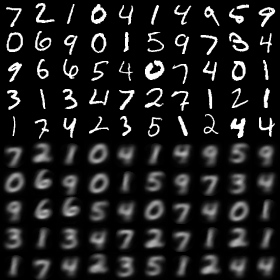
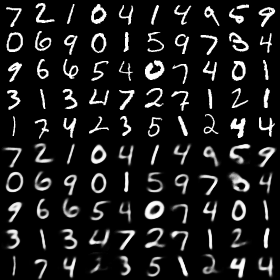
Change lam_recon value and update results
lam_recon from 0.0005 to 0.0005*784
update test error results
re-organize the code

diff --git a/capsulelayers.py b/capsulelayers.py
@@ -60,7 +60,7 @@ def squash(vectors, axis=-1):
     :return: a Tensor with same shape as input vectors
     """
     s_squared_norm = K.sum(K.square(vectors), axis, keepdims=True)
-    scale = s_squared_norm / (1 + s_squared_norm) / K.sqrt(s_squared_norm)
+    scale = s_squared_norm / (1 + s_squared_norm) / K.sqrt(s_squared_norm + K.epsilon())
     return scale * vectors
 
 
@@ -112,31 +112,43 @@ class CapsuleLayer(layers.Layer):
         # Now it has shape = [None, input_num_capsule, num_capsule, 1, input_dim_vector]
         inputs_tiled = K.tile(inputs_expand, [1, 1, self.num_capsule, 1, 1])
 
-        """  
+        """ 
+        # Begin: inputs_hat computation V1 ---------------------------------------------------------------------#
         # Compute `inputs * W` by expanding the first dim of W. More time-consuming and need batch_size.
-        # Now W has shape  = [batch_size, input_num_capsule, num_capsule, input_dim_vector, dim_vector]
+        # w_tiled.shape = [batch_size, input_num_capsule, num_capsule, input_dim_vector, dim_vector]
         w_tiled = K.tile(K.expand_dims(self.W, 0), [self.batch_size, 1, 1, 1, 1])
         
         # Transformed vectors, inputs_hat.shape = [None, input_num_capsule, num_capsule, 1, dim_vector]
         inputs_hat = K.batch_dot(inputs_tiled, w_tiled, [4, 3])
+        # End: inputs_hat computation V1 ---------------------------------------------------------------------#
         """
+
+        # Begin: inputs_hat computation V2 ---------------------------------------------------------------------#
         # Compute `inputs * W` by scanning inputs_tiled on dimension 0. This is faster but requires Tensorflow.
         # inputs_hat.shape = [None, input_num_capsule, num_capsule, 1, dim_vector]
         inputs_hat = tf.scan(lambda ac, x: K.batch_dot(x, self.W, [3, 2]),
                              elems=inputs_tiled,
                              initializer=K.zeros([self.input_num_capsule, self.num_capsule, 1, self.dim_vector]))
+        # End: inputs_hat computation V2 ---------------------------------------------------------------------#
         """
-        # Routing algorithm V1. Use tf.while_loop in a dynamic way.
+        # Begin: routing algorithm V1, dynamic ------------------------------------------------------------#
         def body(i, b, outputs):
-            c = tf.nn.softmax(self.bias, dim=2)  # dim=2 is the num_capsule dimension
+            c = tf.nn.softmax(b, dim=2)  # dim=2 is the num_capsule dimension
             outputs = squash(K.sum(c * inputs_hat, 1, keepdims=True))
-            b = b + K.sum(inputs_hat * outputs, -1, keepdims=True)
+            if i != 1:
+                b = b + K.sum(inputs_hat * outputs, -1, keepdims=True)
             return [i-1, b, outputs]
 
         cond = lambda i, b, inputs_hat: i > 0
         loop_vars = [K.constant(self.num_routing), self.bias, K.sum(inputs_hat, 1, keepdims=True)]
-        _, _, outputs = tf.while_loop(cond, body, loop_vars)
+        shape_invariants = [tf.TensorShape([]),
+                            tf.TensorShape([None, self.input_num_capsule, self.num_capsule, 1, 1]),
+                            tf.TensorShape([None, 1, self.num_capsule, 1, self.dim_vector])]
+        _, _, outputs = tf.while_loop(cond, body, loop_vars, shape_invariants)
+        # End: routing algorithm V1, dynamic ------------------------------------------------------------#
         """
+
+        # Begin: routing algorithm V2, static -----------------------------------------------------------#
         # Routing algorithm V2. Use iteration. V2 and V1 both work without much difference on performance
         assert self.num_routing > 0, 'The num_routing should be > 0.'
         for i in range(self.num_routing):
@@ -149,6 +161,8 @@ class CapsuleLayer(layers.Layer):
                 # self.bias = K.update_add(self.bias, K.sum(inputs_hat * outputs, [0, -1], keepdims=True))
                 self.bias += K.sum(inputs_hat * outputs, -1, keepdims=True)
             # tf.summary.histogram('BigBee', self.bias)  # for debugging
+        # End: routing algorithm V2, static ------------------------------------------------------------#
+
         return K.reshape(outputs, [-1, self.num_capsule, self.dim_vector])
 
     def compute_output_shape(self, input_shape):
@@ -163,9 +177,10 @@ def PrimaryCap(inputs, dim_vector, n_channels, kernel_size, strides, padding):
     :param n_channels: the number of types of capsules
     :return: output tensor, shape=[None, num_capsule, dim_vector]
     """
-    output = layers.Conv2D(filters=dim_vector*n_channels, kernel_size=kernel_size, strides=strides, padding=padding)(inputs)
-    outputs = layers.Reshape(target_shape=[-1, dim_vector])(output)
-    return layers.Lambda(squash)(outputs)
+    output = layers.Conv2D(filters=dim_vector*n_channels, kernel_size=kernel_size, strides=strides, padding=padding,
+                           name='primarycap_conv2d')(inputs)
+    outputs = layers.Reshape(target_shape=[-1, dim_vector], name='primarycap_reshape')(output)
+    return layers.Lambda(squash, name='primarycap_squash')(outputs)
 
 
 """

diff --git a/capsulenet.py b/capsulenet.py
@@ -16,7 +16,7 @@ Result:
 Author: Xifeng Guo, E-mail: `guoxifeng1990@163.com`, Github: `https://github.com/XifengGuo/CapsNet-Keras`
 """
 
-from keras import layers, models
+from keras import layers, models, optimizers
 from keras import backend as K
 from keras.utils import to_categorical
 from capsulelayers import CapsuleLayer, PrimaryCap, Length, Mask
@@ -25,7 +25,7 @@ from capsulelayers import CapsuleLayer, PrimaryCap, Length, Mask
 def CapsNet(input_shape, n_class, num_routing):
     """
     A Capsule Network on MNIST.
-    :param input_shape: data shape, 4d, [None, width, height, channels]
+    :param input_shape: data shape, 3d, [width, height, channels]
     :param n_class: number of classes
     :param num_routing: number of routing iterations
     :return: A Keras Model with 2 inputs and 2 outputs
@@ -50,8 +50,8 @@ def CapsNet(input_shape, n_class, num_routing):
     masked = Mask()([digitcaps, y])  # The true label is used to mask the output of capsule layer.
     x_recon = layers.Dense(512, activation='relu')(masked)
     x_recon = layers.Dense(1024, activation='relu')(x_recon)
-    x_recon = layers.Dense(784, activation='sigmoid')(x_recon)
-    x_recon = layers.Reshape(target_shape=[28, 28, 1], name='out_recon')(x_recon)
+    x_recon = layers.Dense(np.prod(input_shape), activation='sigmoid')(x_recon)
+    x_recon = layers.Reshape(target_shape=input_shape, name='out_recon')(x_recon)
 
     # two-input-two-output keras Model
     return models.Model([x, y], [out_caps, x_recon])
@@ -87,10 +87,10 @@ def train(model, data, args):
                                batch_size=args.batch_size, histogram_freq=args.debug)
     checkpoint = callbacks.ModelCheckpoint(args.save_dir + '/weights-{epoch:02d}.h5',
                                            save_best_only=True, save_weights_only=True, verbose=1)
-    lr_decay = callbacks.LearningRateScheduler(schedule=lambda epoch: 0.001 * np.exp(-epoch / 10.))
+    lr_decay = callbacks.LearningRateScheduler(schedule=lambda epoch: args.lr * (0.9 ** epoch))
 
     # compile the model
-    model.compile(optimizer='adam',
+    model.compile(optimizer=optimizers.Adam(lr=args.lr),
                   loss=[margin_loss, 'mse'],
                   loss_weights=[1., args.lam_recon],
                   metrics={'out_caps': 'accuracy'})
@@ -98,10 +98,10 @@ def train(model, data, args):
     """
     # Training without data augmentation:
     model.fit([x_train, y_train], [y_train, x_train], batch_size=args.batch_size, epochs=args.epochs,
-              validation_data=[[x_test, y_test], [y_test, x_test]], callbacks=[log, tb, checkpoint])
+              validation_data=[[x_test, y_test], [y_test, x_test]], callbacks=[log, tb, checkpoint, lr_decay])
     """
 
-    # -----------------------------------Begin: Training with data augmentation -----------------------------------#
+    # Begin: Training with data augmentation ---------------------------------------------------------------------#
     def train_generator(x, y, batch_size, shift_fraction=0.):
         train_datagen = ImageDataGenerator(width_shift_range=shift_fraction,
                                            height_shift_range=shift_fraction)  # shift up to 2 pixel for MNIST
@@ -116,7 +116,7 @@ def train(model, data, args):
                         epochs=args.epochs,
                         validation_data=[[x_test, y_test], [y_test, x_test]],
                         callbacks=[log, tb, checkpoint, lr_decay])
-    # -----------------------------------End: Training with data augmentation -----------------------------------#
+    # End: Training with data augmentation -----------------------------------------------------------------------#
 
     model.save_weights(args.save_dir + '/trained_model.h5')
     print('Trained model saved to \'%s/trained_model.h5\'' % args.save_dir)
@@ -170,14 +170,15 @@ if __name__ == "__main__":
     import argparse
     parser = argparse.ArgumentParser()
     parser.add_argument('--batch_size', default=100, type=int)
-    parser.add_argument('--epochs', default=20, type=int)
-    parser.add_argument('--lam_recon', default=0.0005, type=float)
+    parser.add_argument('--epochs', default=30, type=int)
+    parser.add_argument('--lam_recon', default=0.392, type=float)  # 784 * 0.0005, paper uses sum of SE, here uses MSE
     parser.add_argument('--num_routing', default=3, type=int)  # num_routing should > 0
     parser.add_argument('--shift_fraction', default=0.1, type=float)
     parser.add_argument('--debug', default=0, type=int)  # debug>0 will save weights by TensorBoard
     parser.add_argument('--save_dir', default='./result')
     parser.add_argument('--is_training', default=1, type=int)
     parser.add_argument('--weights', default=None)
+    parser.add_argument('--lr', default=0.001, type=float)
     args = parser.parse_args()
     print(args)
     if not os.path.exists(args.save_dir):

diff --git a/README.md b/README.md
@@ -1,55 +1,67 @@
 # CapsNet-Keras
 [![License](https://img.shields.io/github/license/mashape/apistatus.svg?maxAge=2592000)](https://github.com/XifengGuo/CapsNet-Keras/blob/master/LICENSE)
 
-Now `Val_acc>99.5%`. A Keras implementation of CapsNet in the paper:   
+Now `test error < 0.4%`. A Keras implementation of CapsNet in the paper:   
 [Sara Sabour, Nicholas Frosst, Geoffrey E Hinton. Dynamic Routing Between Capsules. NIPS 2017](https://arxiv.org/abs/1710.09829)
 
+**Differences with the paper:**   
+- We use the learning rate decay with `decay factor = 0.9` and `step = 1 epoch`,    
+while the paper did not give the detailed parameters.
+- We only report the test errors after `30 epochs` training (still under-fitting).   
+In the paper, I suppose they trained for `1250 epochs` according to Figure A.1?
+- We use MSE (mean squared error) as the reconstruction loss and 
+the coefficient for the loss is `lam_recon=0.0005*784=0.392`.   
+This should be **equivalent** with using SSE (sum squared error) and `lam_recon=0.0005` as in the paper.
+
 **Recent updates:**
-- Released v0.1 to use. No frequent changes will be made.
+- Change the default value of lam_recon from 0.0005 to 0.392. This is because the reconstruction
+loss is SSE in paper but MSE in our implementation. 
+We believe that MSE is more robust to the dimension of input images.
+- Report test errors on MNIST
 
 **TODO**
-- Keep debugging to improve the accuracy. The learning rate decay can be tuned.
-- The model has 8M parameters, while the paper said it should be 11M.
-I'll figure out what's the problem.
-- It is time to do something with CapsuleNet...(LOL)
+- ~~The model has 8M parameters, while the paper said it should be 11M.~~   
+I have figured out the reason: 11M parameters are for the CapsuleNet on MultiMNIST where the
+image size is 36x36. The CapsuleNet on MNIST should indeed have 8M parameters. 
+- I'll stop pursuing higher accuracy on MNIST. 
+It is time to explore the interacting characteristics of CapsuleNet.
 
-**Contribution**
-- Your contribution to the repo is welcome. Open an issue or contact me with 
-`guoxifeng1990@163.com` or WeChat (微信号) `wenlong-guo`.
+**Contacts**
+- Your contributions to the repo are always welcome. 
+Open an issue or contact me with E-mail `guoxifeng1990@163.com` or WeChat `wenlong-guo`.
 
-## Requirements
-- [Keras](https://github.com/fchollet/keras) 
-- matplotlib
 
 ## Usage
 
-### Training
-**Step 1.**
-Install Keras:
-
-`$ pip install keras`
-
-**Step 2.** 
-Clone this repository with ``git``.
-
+**Step 1.
+Install [Keras](https://github.com/fchollet/keras) 
+with [TensorFlow](https://github.com/tensorflow/tensorflow) backend.**
 ```
-$ git clone https://github.com/xifengguo/CapsNet-Keras.git
-$ cd CapsNet-Keras
+pip install tensorflow-gpu
+pip install keras
 ```
 
-**Step 3.** 
-Training:
+**Step 2. Clone this repository to local.**
+```
+git clone https://github.com/XifengGuo/CapsNet-Keras.git
+cd CapsNet-Keras
+```
+
+**Step 3. Train a CapsNet on MNIST**  
+
+Training with default settings:
 ```
 $ python capsulenet.py
 ```
 Training with one routing iteration (default 3).   
+```
+$ python capsulenet.py --num_routing 1
+```
 
-`$ python capsulenet.py --num_routing 1`
-
-Other parameters include `batch_size, epochs, lam_recon, shift_fraction, save_dir` can 
+Other parameters include `batch_size, epochs, lam_recon, shift_fraction, save_dir` can be
 passed to the function in the same way. Please refer to `capsulenet.py`
 
-### Testing
+**Step 4. Test a pre-trained CapsNet model**
 
 Suppose you have trained a model using the above command, then the trained model will be
 saved to `result/trained_model.h5`. Now just launch the following command to get test results.
@@ -58,47 +70,52 @@ $ python capsulenet.py --is_training 0 --weights result/trained_model.h5
 ```
 It will output the testing accuracy and show the reconstructed images.
 The testing data is same as the validation data. It will be easy to test on new data, 
-just change the code as you want (Of course you can do it!!!)
+just change the code as you want.
 
-If sadly you do not have a good computer to train the model (sad face), you can *download
-a model I trained* from https://pan.baidu.com/s/1hsF2bvY
+You can also just *download a model I trained* from https://pan.baidu.com/s/1o7Hb9fO
 
 ## Results
 
-**Main result**   
-by launching `python capsulenet.py`:
-The epoch=1 means the result is evaluated after training one epoch.
-In the saved log file, it starts from 0.
+**Test Errors**   
 
-   Epoch     |   1   |   5  |  10  |  15  |  20    
-   :---------|:------:|:---:|:----:|:----:|:----:
-   train_acc |  90.65| 98.95| 99.36| 99.63| 99.75 
-   vali_acc  |  98.51| 99.30| 99.34| 99.49| 99.59
-  
-Losses and accuracies:   
-![](result/log.png) 
-
-
-**Results with one routing iteration**   
-by launching `python CapsNet.py --num_routing 1`   
-
-   Epoch     |   1   |   5  |  10  |  15  |  20    
-   :---------|:------:|:---:|:----:|:----:|:----:
-   train_acc |  89.64| 99.02| 99.42| 99.66| 99.73 
-   vali_acc  |  98.55| 99.33| 99.43| 99.57| 99.58
+CapsNet classification test **error** on MNIST. Average and standard deviation results are
+reported by 3 trials. The results can be reproduced by launching the following commands.   
+ ```
+ python capsulenet.py --num_routing 1 --lam_recon 0.0    #CapsNet-v1   
+ python capsulenet.py --num_routing 1 --lam_recon 0.392  #CapsNet-v2
+ python capsulenet.py --num_routing 3 --lam_recon 0.0    #CapsNet-v3 
+ python capsulenet.py --num_routing 3 --lam_recon 0.392  #CapsNet-v4
+```
+   Method     |   Routing   |   Reconstruction  |  MNIST (%)  |  *Paper*    
+   :---------|:------:|:---:|:----:|:----:
+   Baseline |  -- | -- | --             | *0.39* 
+   CapsNet-v1 |  1 | no | 0.39 (0.024)  | *0.34 (0.032)* 
+   CapsNet-v2  |  1 | yes | 0.37 (0.022)| *0.29 (0.011)*
+   CapsNet-v3 |  3 | no | 0.40 (0.016)  | *0.35 (0.036)*
+   CapsNet-v4  |  3 | yes| 0.34 (0.009) | *0.25 (0.005)*
    
+Losses and accuracies:   
+![](result/log.png)
 
-Every epoch consumes about `110s` on a single GTX 1070 GPU.   
 
-***NOTE:*** The training is still under-fitting, welcome to try for your own.   
-The learning rate decay is not fine-tuned, I just tried this one. You can tune this.
+**Training Speed**  
 
-**Testing result**   
-The result by launching   
-`python capsulenet.py --is_training 0 --weights result/trained_model.h5`   
+About `110s / epoch` on a single GTX 1070 GPU.   
+
+
+**Reconstruction result**  
+
+The result of CapsNet-v4 by launching   
+```
+python capsulenet.py --is_training 0 --weights result/trained_model.h5
+```
+Digits at top 5 rows are real images from MNIST and 
+digits at bottom are corresponding reconstructed images.
+
 ![](real_and_recon.png)
 
-**The model structure:**   
+**The model structure:**  
+ 
 ![](result/model.png)
 
 ## Other Implementations
